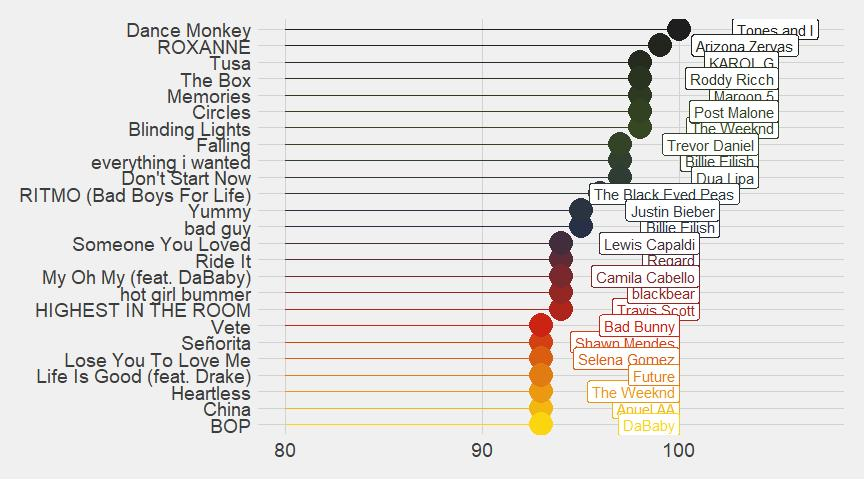
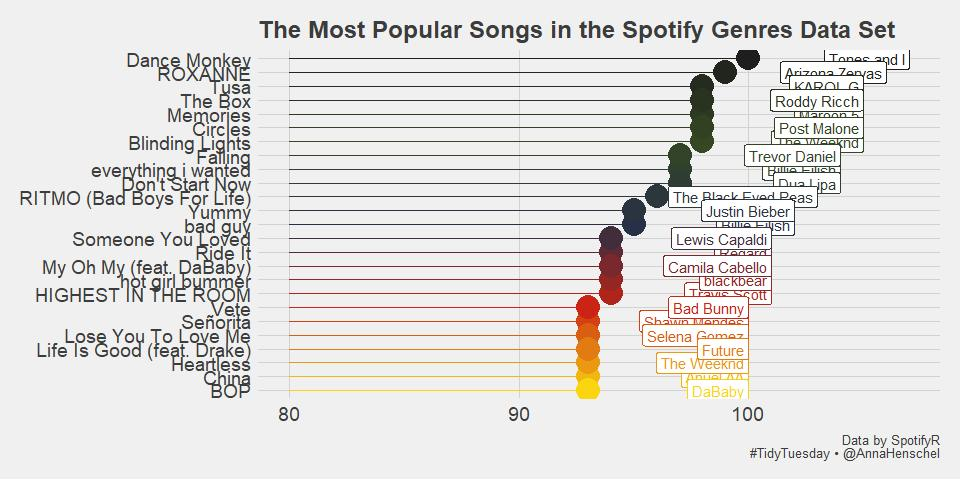
updated script and knitted to new github document

Changed region(s): [[0.0, 0.0312, 1.0, 0.9688]]

diff --git a/2020-01-21 Song Genres/Song-Genres-Anna-Henschel.md b/2020-01-21 Song Genres/Song-Genres-Anna-Henschel.md
@@ -132,7 +132,10 @@ ggplot(aes(x = track_popularity, y = track_name, colour = track_name, label = tr
   theme_fivethirtyeight() + 
   theme(legend.position = "none", 
         axis.text.x = element_text(size =14), 
-        axis.text.y = element_text(size =14))
+        axis.text.y = element_text(size =14)) +
+  labs(x = 'Song Popularity', y = '',
+         title = 'The Most Popular Songs in the Spotify Genres Data Set', 
+         caption = 'Data by SpotifyR\n #TidyTuesday • @AnnaHenschel') 
 ```
 
 ![](Song-Genres-Anna-Henschel_files/figure-gfm/unnamed-chunk-6-1.jpeg)<!-- -->
